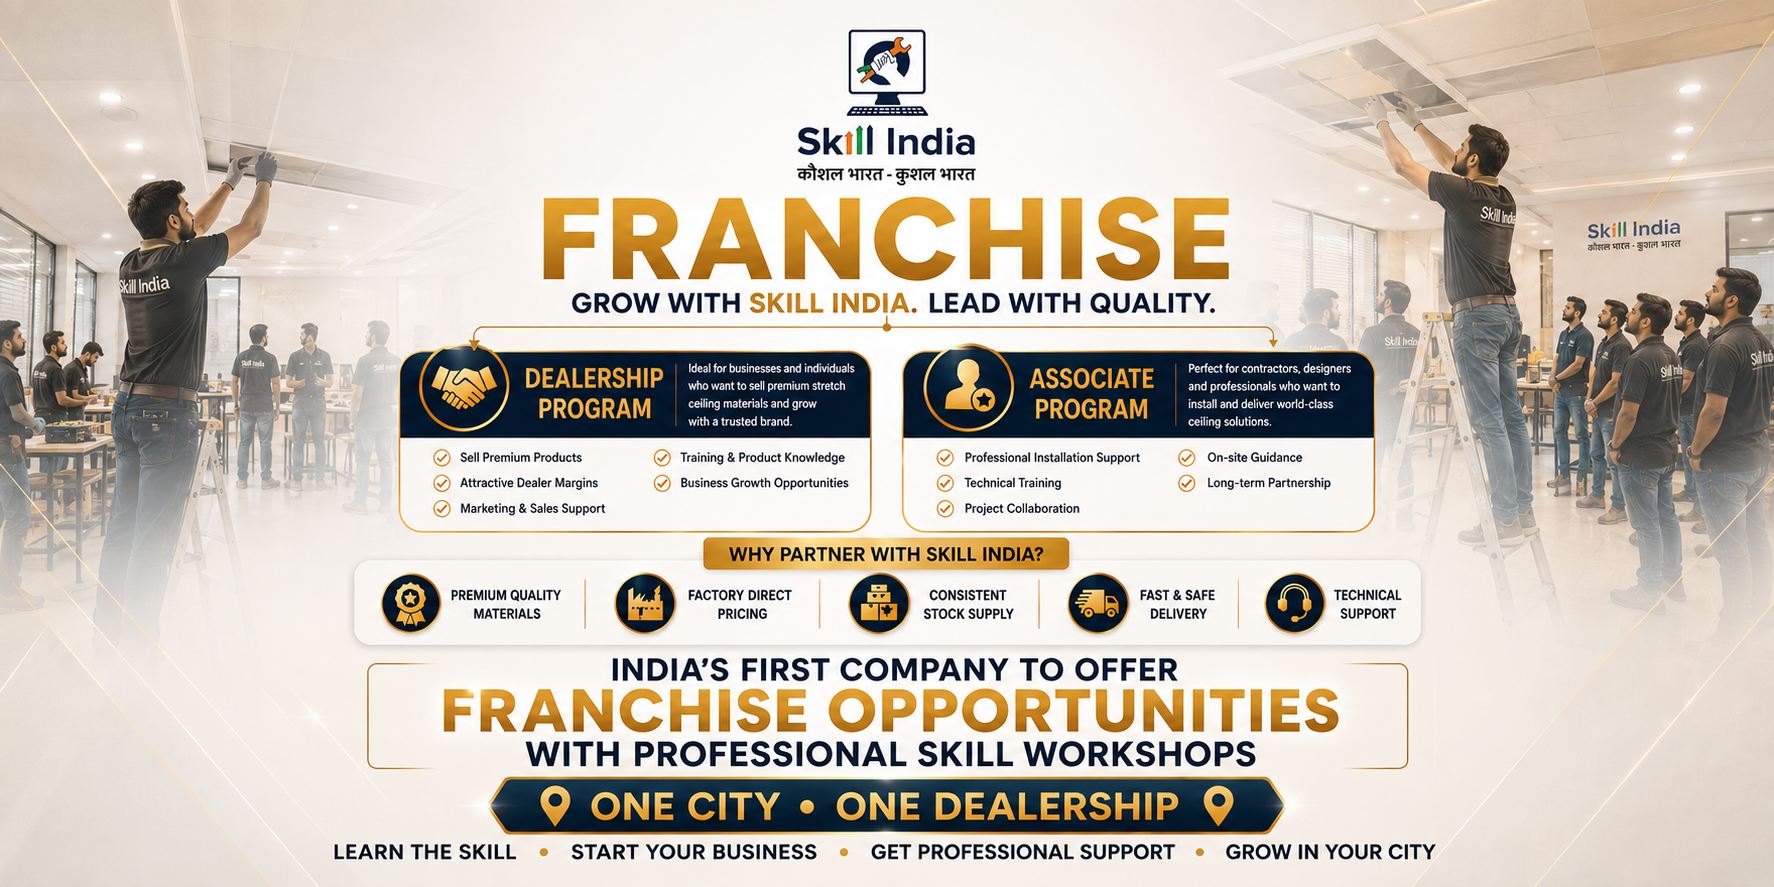
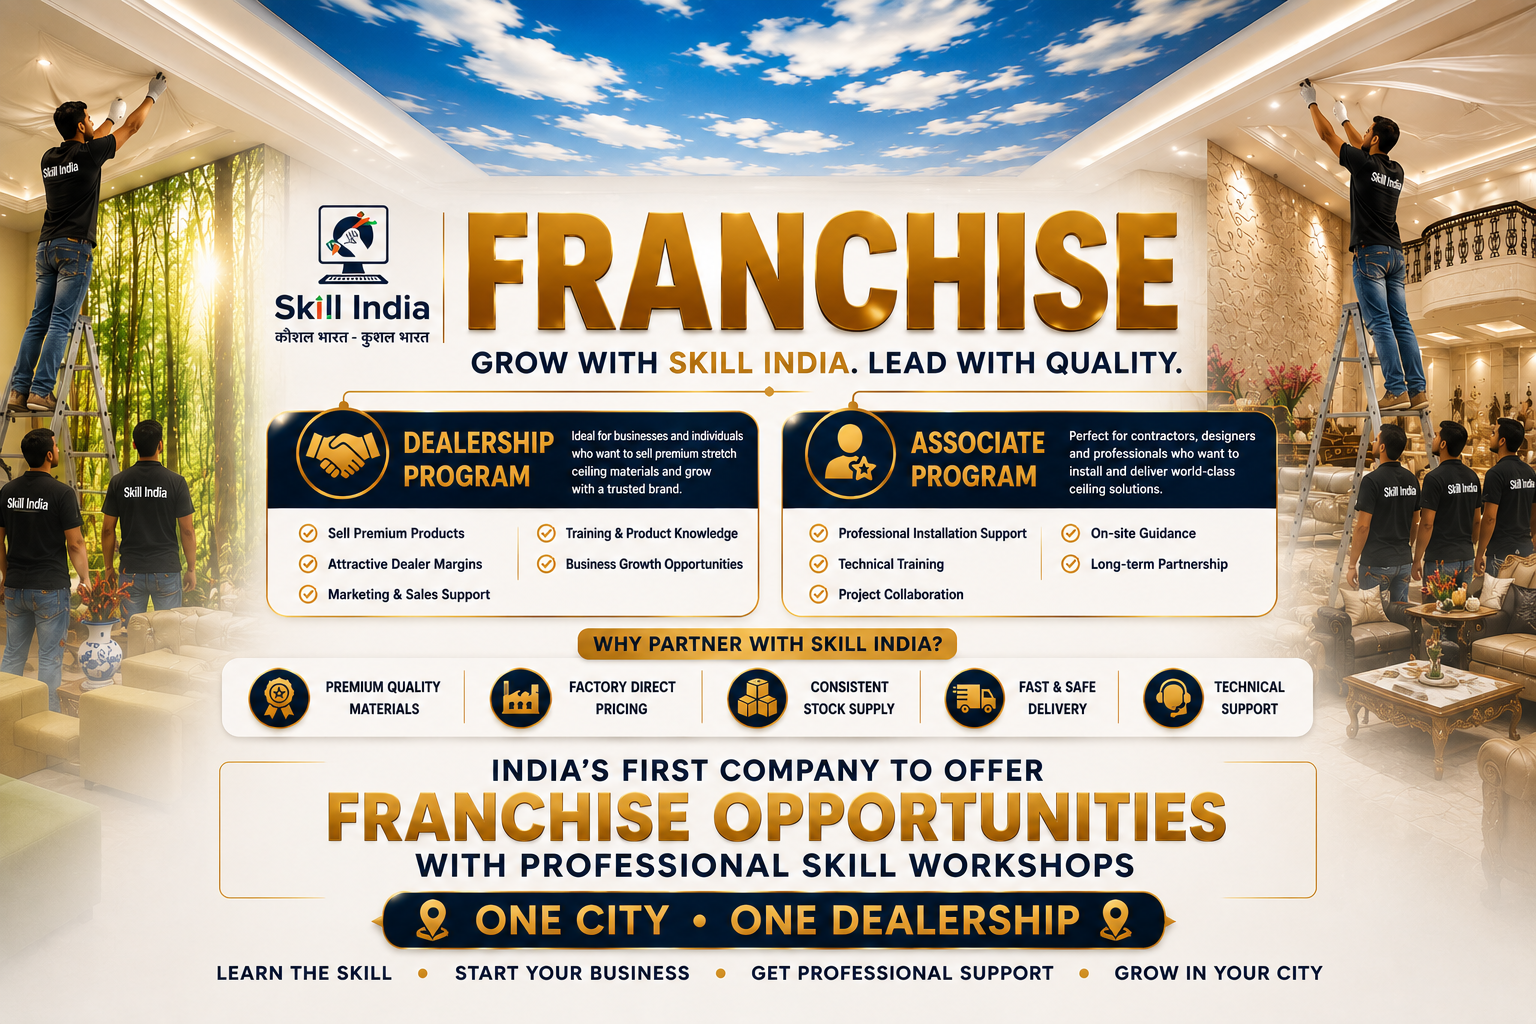
franch

diff --git a/src/components/Franchise.jsx b/src/components/Franchise.jsx
@@ -34,12 +34,12 @@ const Franchise = () => {
           HERO / HEADER SECTION
       ===================================================== */}
 
-      <section className="relative min-h-[560px] overflow-hidden">
+      <section className="relative min-h-[690px] overflow-hidden">
 
         {/* Background Image */}
         <div className="absolute inset-0">
 <img
-  src="/franchaise-hero/franchise-hero.png"
+  src="/franchaise-hero/franchise.png"
   alt="NOOH Luxury Interior"
   className="h-full w-full object-cover "
 />
